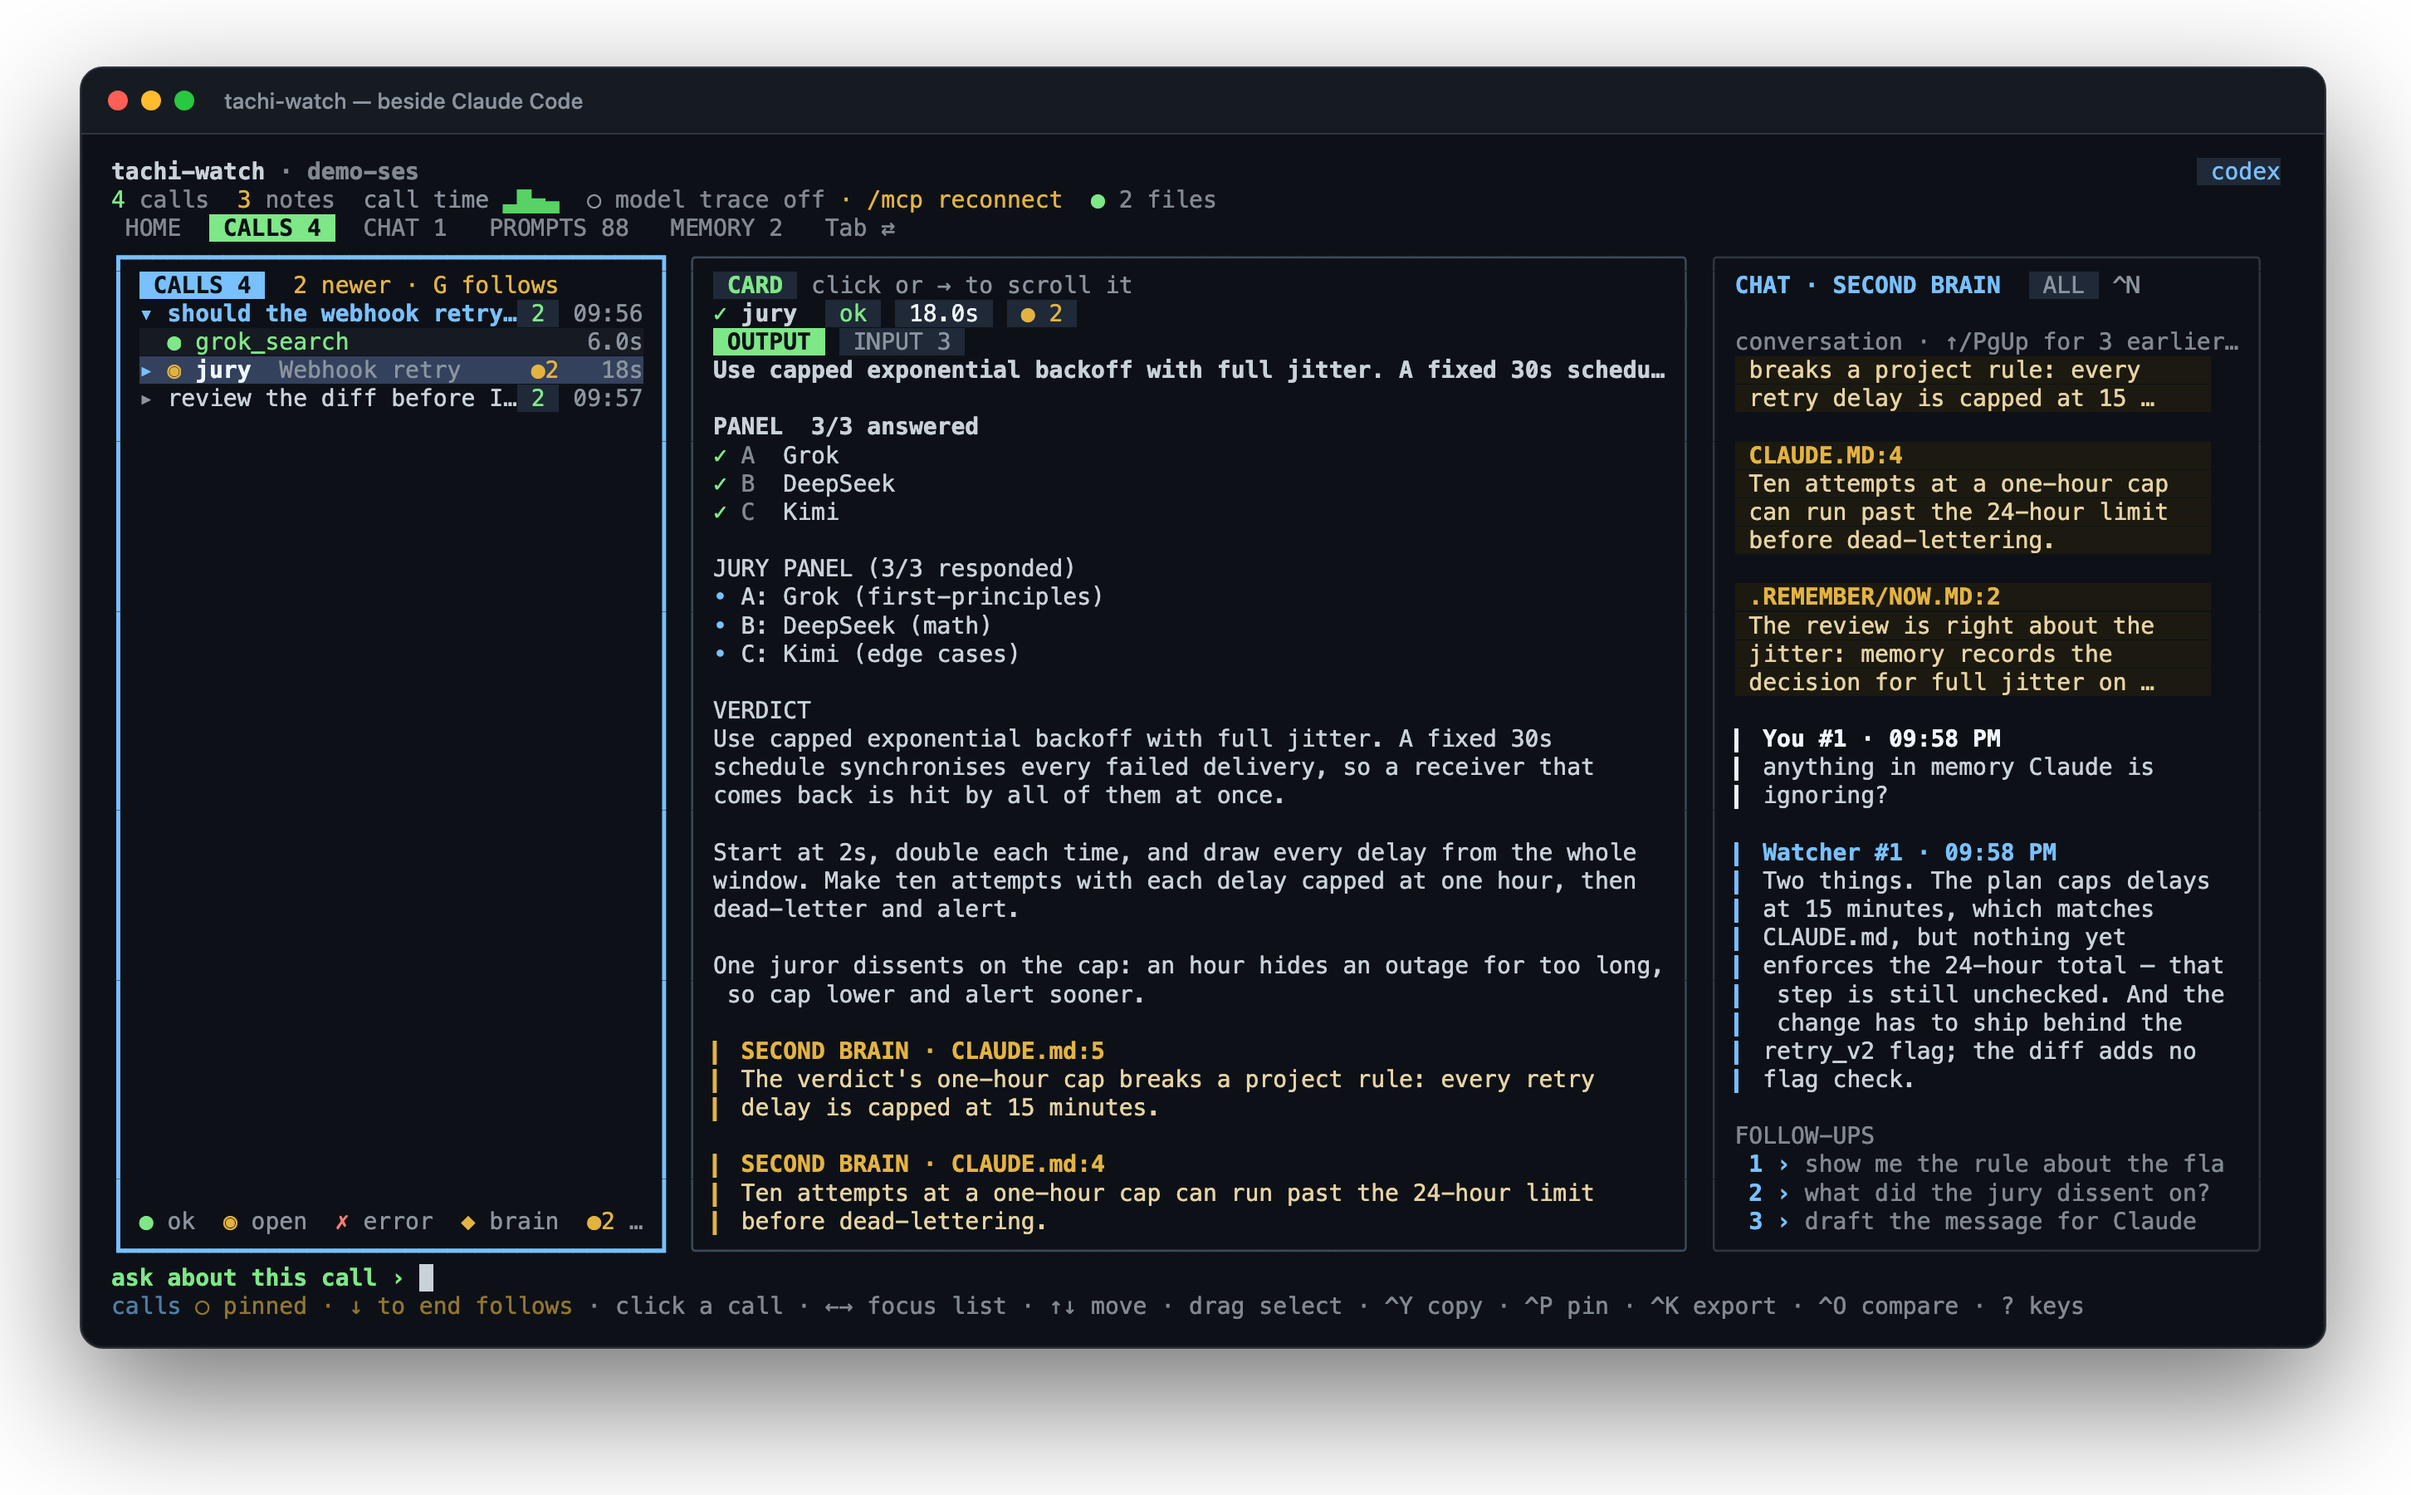
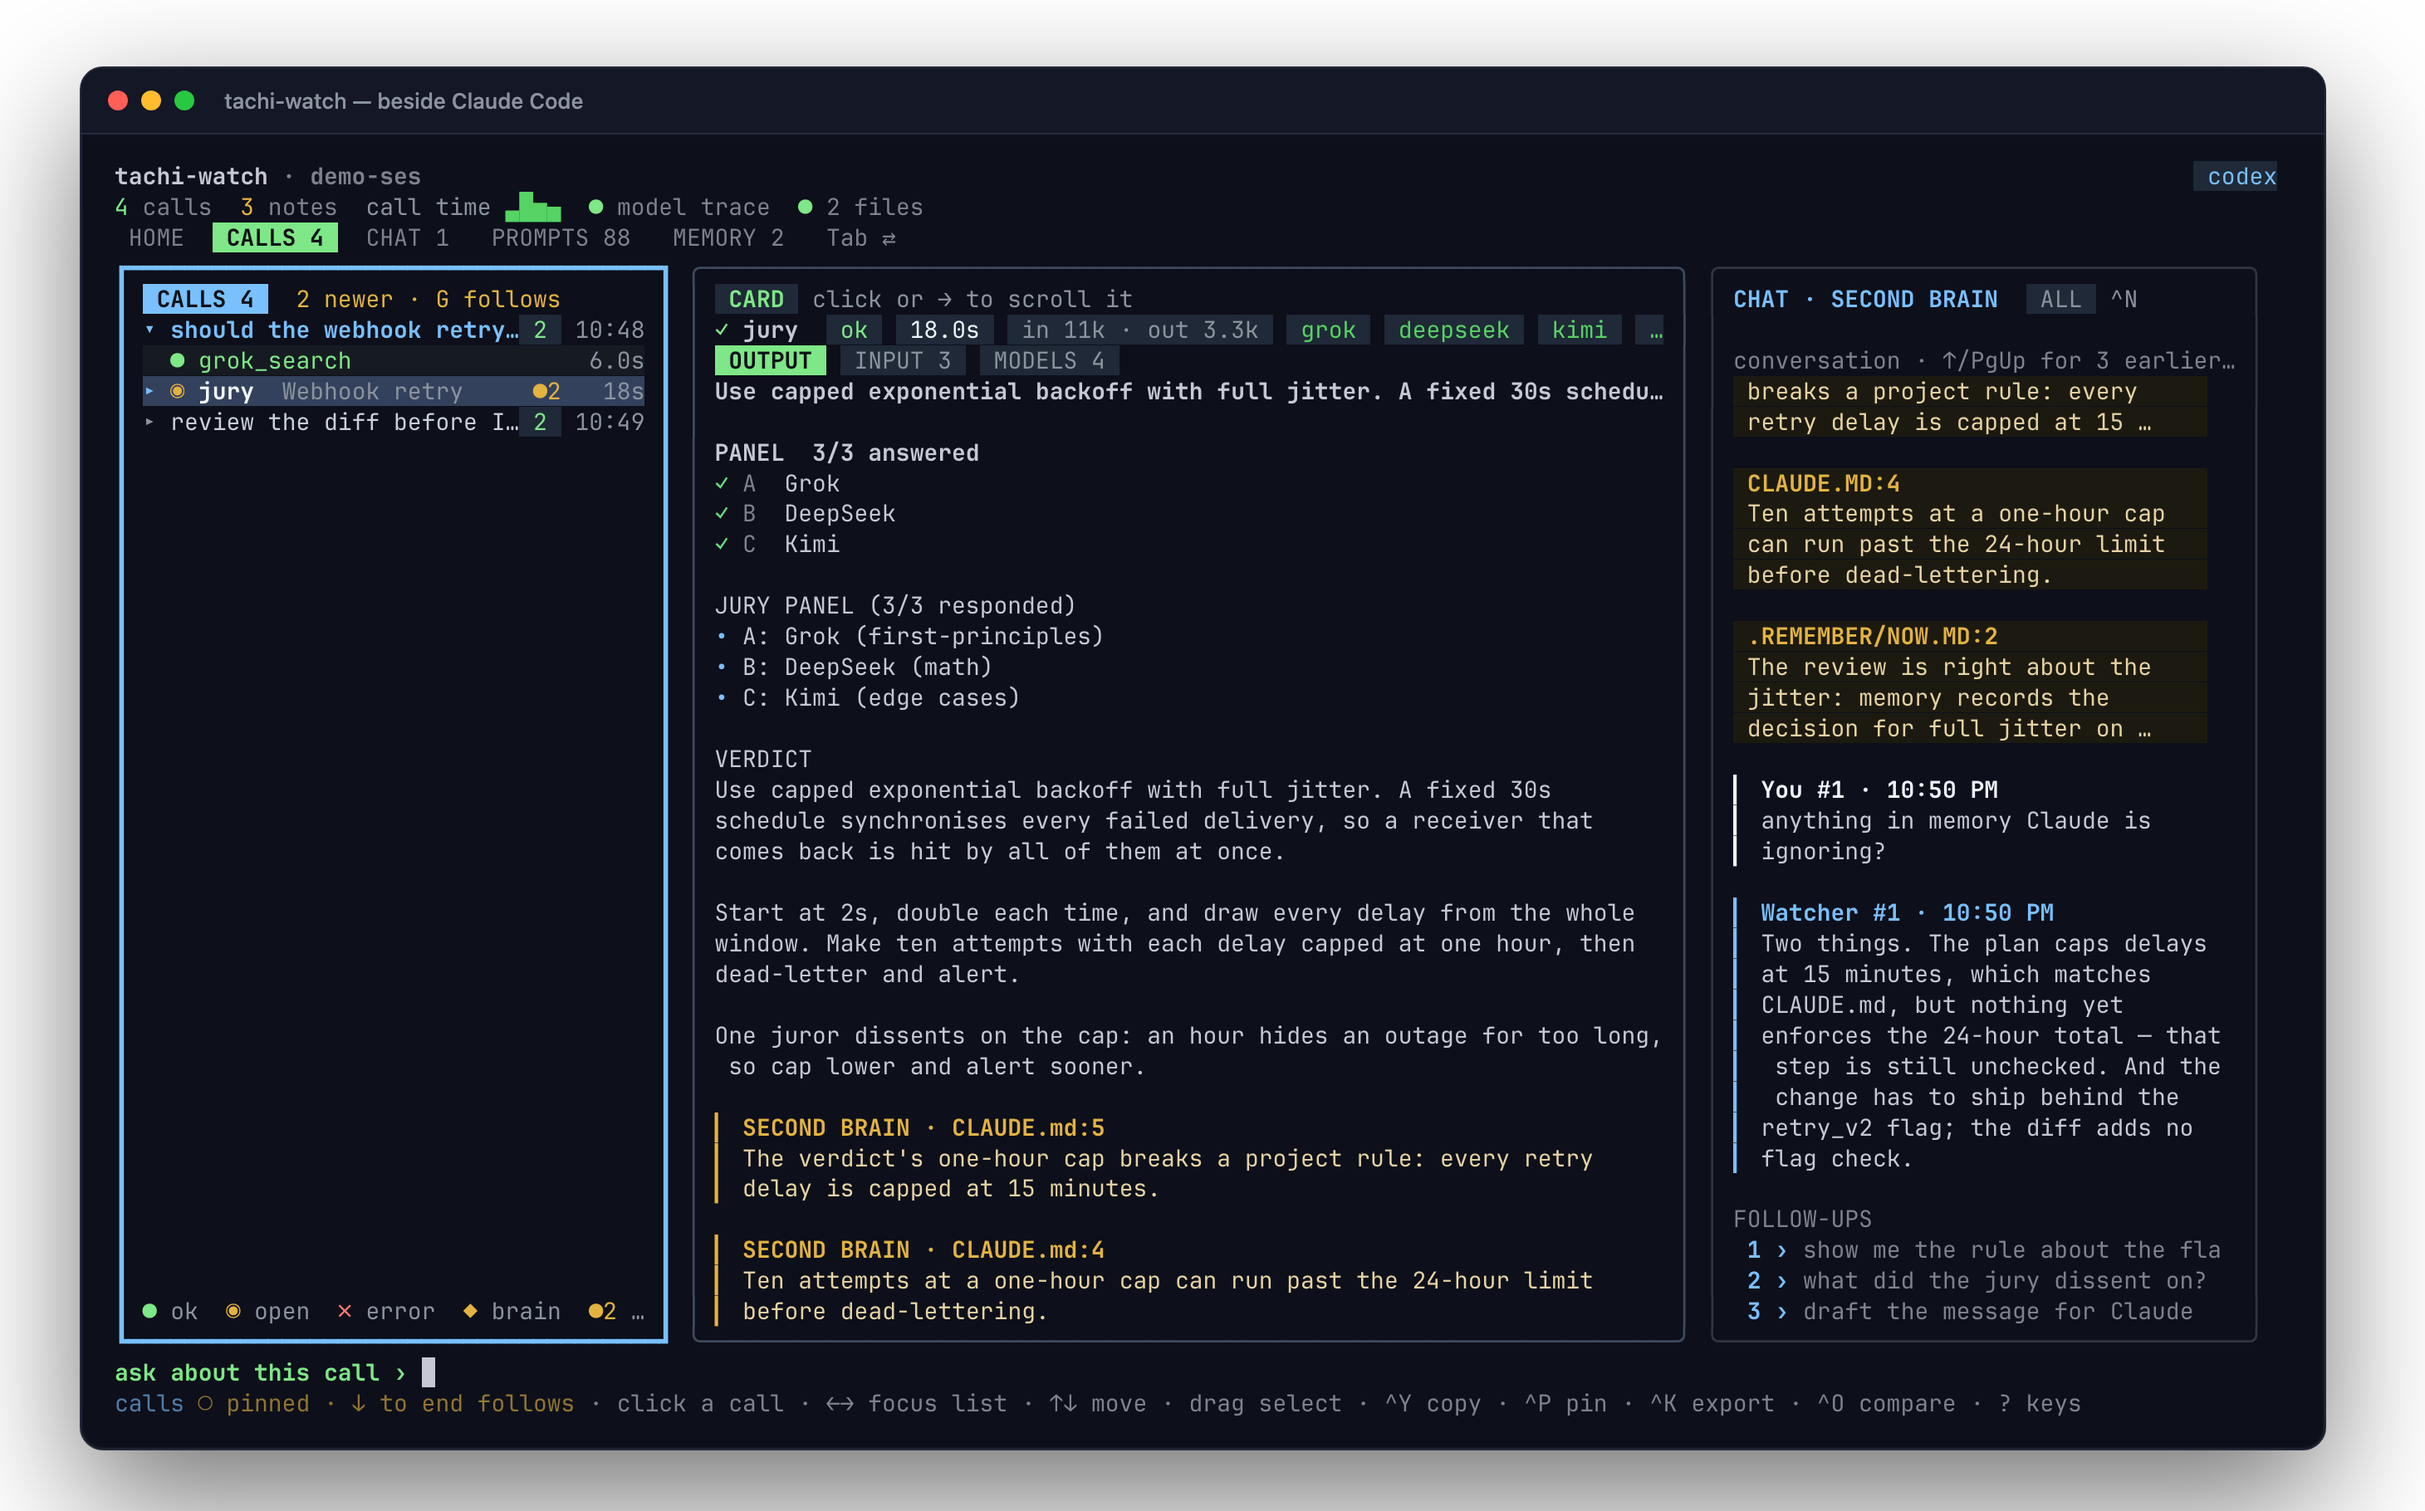
docs(watch): screenshot in the terminal's own font with the model trace live; header no longer shows a /mcp reconnect hint
The demo session can now stand in for tachibot's trace server (--serve), so
the screenshot shows model calls and token counts. With the trace off, the
header says so quietly; what turns it on is spelled out on HOME's ready check.

diff --git a/src/watch/ui.tsx b/src/watch/ui.tsx
@@ -796,7 +796,7 @@ function Header({ s, calls, width, status, view, chatCount, frame }: { s: WatchS
         [fallbacks ? String(fallbacks).length + 10 : 0, fallbacks ? <Text key="f" color="#e3b341">{fallbacks} fallbacks</Text> : null],
         [String(notes).length + 6, <Text key="n"><Text color={notes ? "#e3b341" : "#8b949e"}>{notes}</Text><Text dimColor> notes</Text></Text>],
         [spark.length + 10, spark ? <Text key="s"><Text color={THEME.muted}>call time </Text><Text color="#56d364">{spark}</Text></Text> : null],
-        [traced ? 13 : 35, <Text key="m"><Text color={traced ? "#7ee787" : "#8b949e"}>{traced ? "●" : "○"}</Text><Text dimColor>{traced ? " model trace" : " model trace off"}</Text>{traced ? null : <Text color={THEME.note}> · /mcp reconnect</Text>}</Text>],
+        [traced ? 13 : 17, <Text key="m"><Text color={traced ? "#7ee787" : "#8b949e"}>{traced ? "●" : "○"}</Text><Text dimColor>{traced ? " model trace" : " model trace off"}</Text></Text>],
         [s.memory.length + 2, <Text key="mem"><Text color="#7ee787">●</Text><Text dimColor> {s.memory}</Text></Text>],
       ])}</Box>
       {status ? <Text dimColor wrap="truncate-end">{status.output}</Text> : null}
